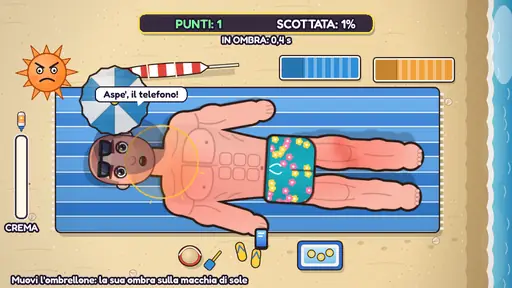
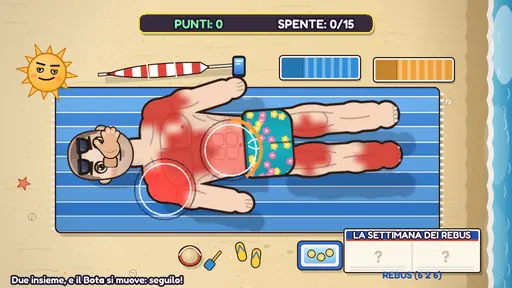
Novità e anteprima del Bota col rebus
Claude-Session: https://claude.ai/code/session_01SvbmSwNcf9mbbMGxdptx9o

diff --git a/PowerStation Party - sito/js/config/novita.js b/PowerStation Party - sito/js/config/novita.js
@@ -2,13 +2,15 @@
 // che si apre il gioco dopo un aggiornamento (quando "versione" cambia), e dal menu.
 // Per un aggiornamento nuovo: cambia "versione" e riscrivi le voci (una riga ciascuna, corte).
 export default {
-  versione: '2026.11-musiche',
+  versione: '2026.11-rebus',
   titolo: 'NOVITÀ',
   voci: [
     'Scontrino, prego!: i clienti ora sono disegnati come voi, tutti diversi',
     'La Spina: lo Zere rifatto, in felpa blu con la sua vuvuzela',
     'Il Passo del Passaseo: montagne nuove, boschi, baite e mucche',
     'E il Sego che scala la parete: scivola quando sbagli, esulta se vinci',
+    'Spalma il Bota!: in spiaggia c\'è il rebus, si completa spegnendo le scottature',
+    'Arrivi all\'obiettivo? Aiuta il Bota a risolverlo: +30 punti',
     'Musiche nuove: suono più pieno, batteria vera, atti che crescono',
     'Riscritte le musiche della Spina (swing da bar) e della Barba',
   ],
